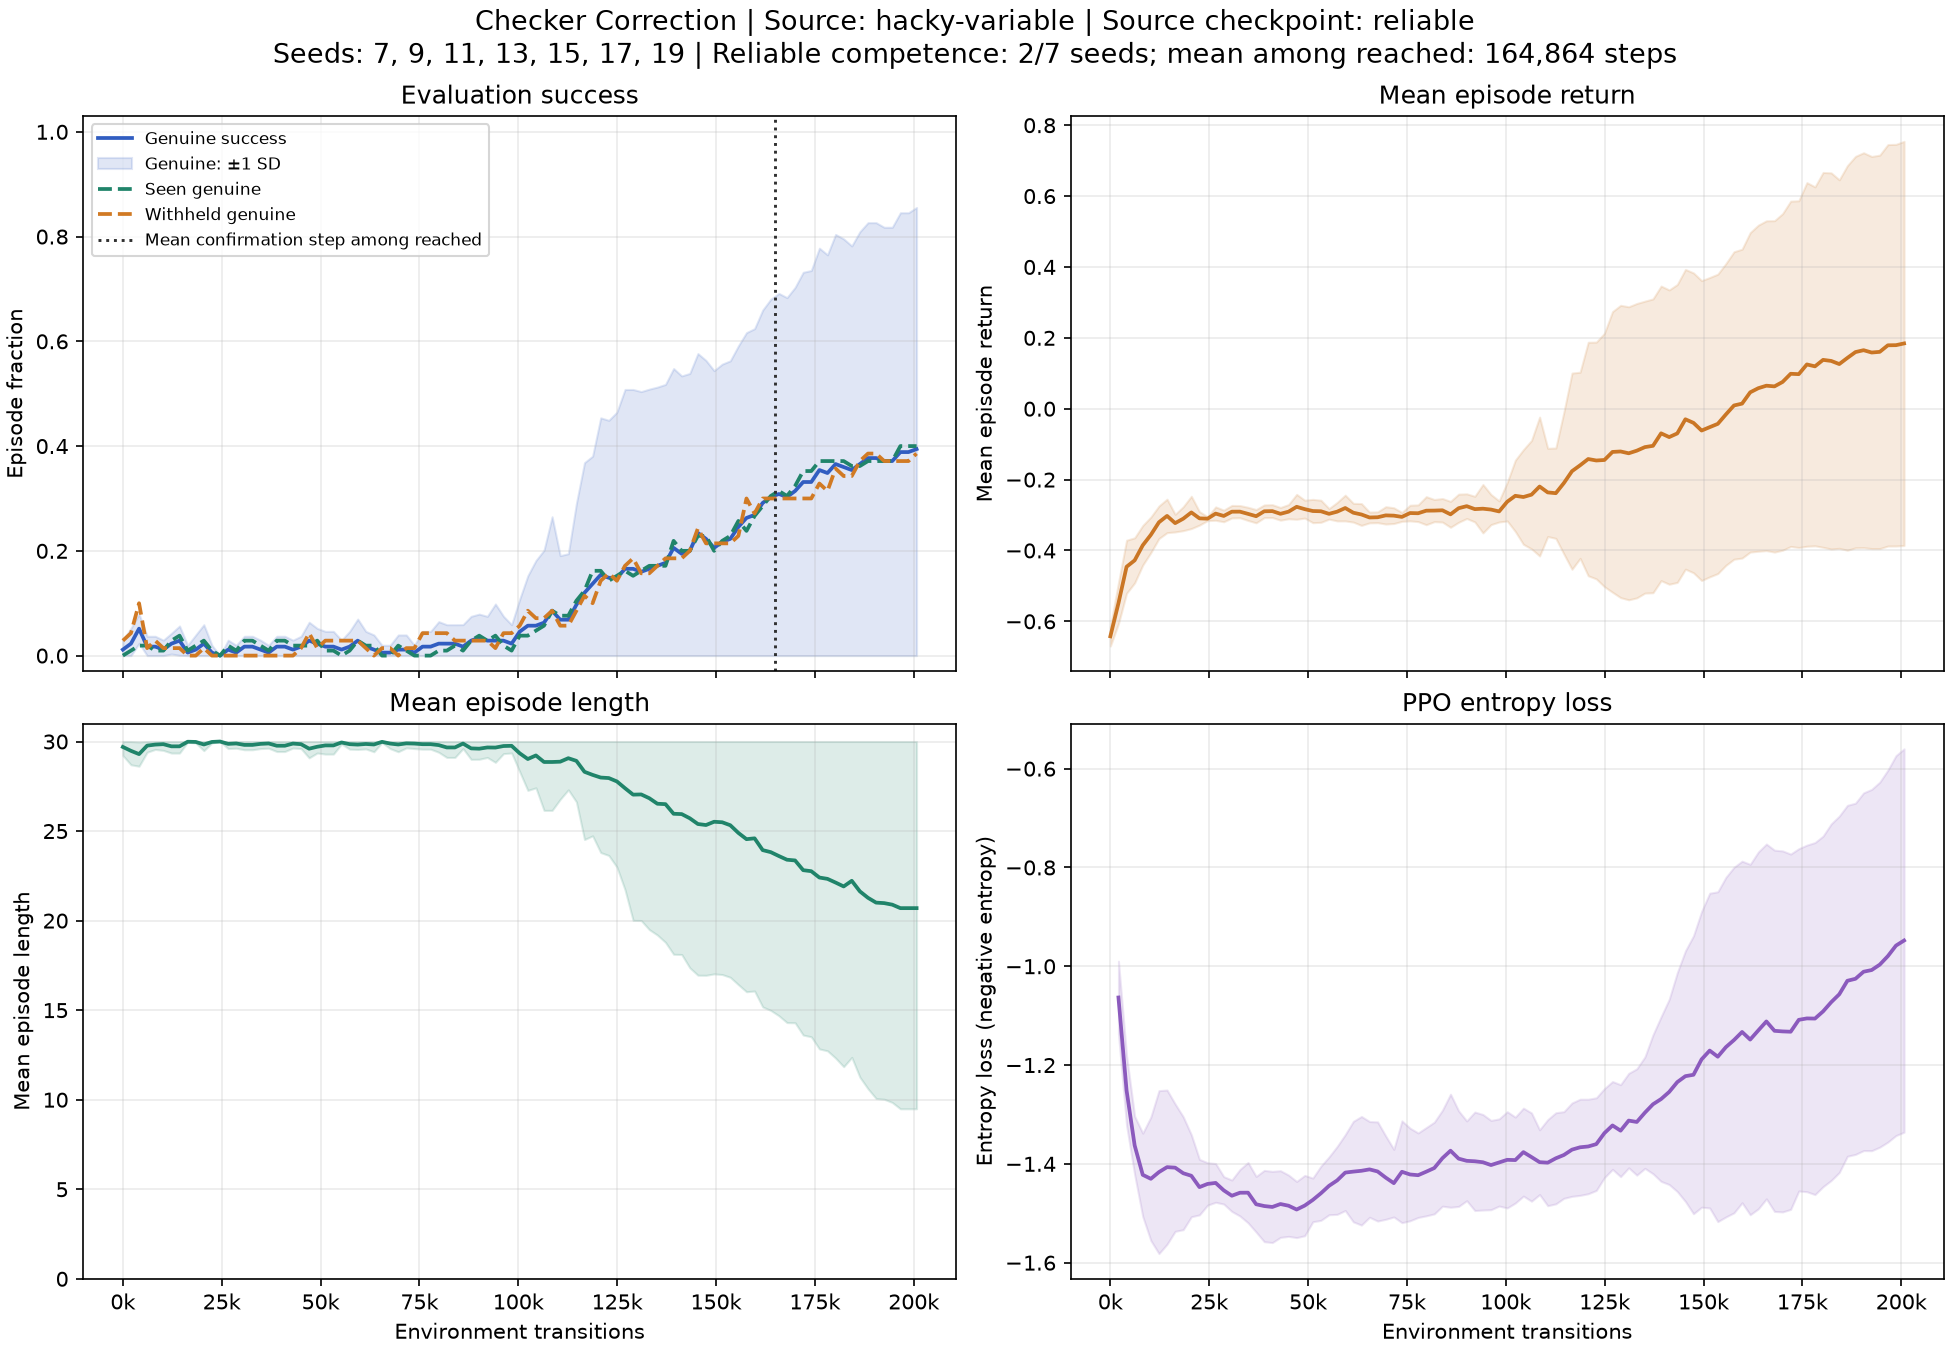
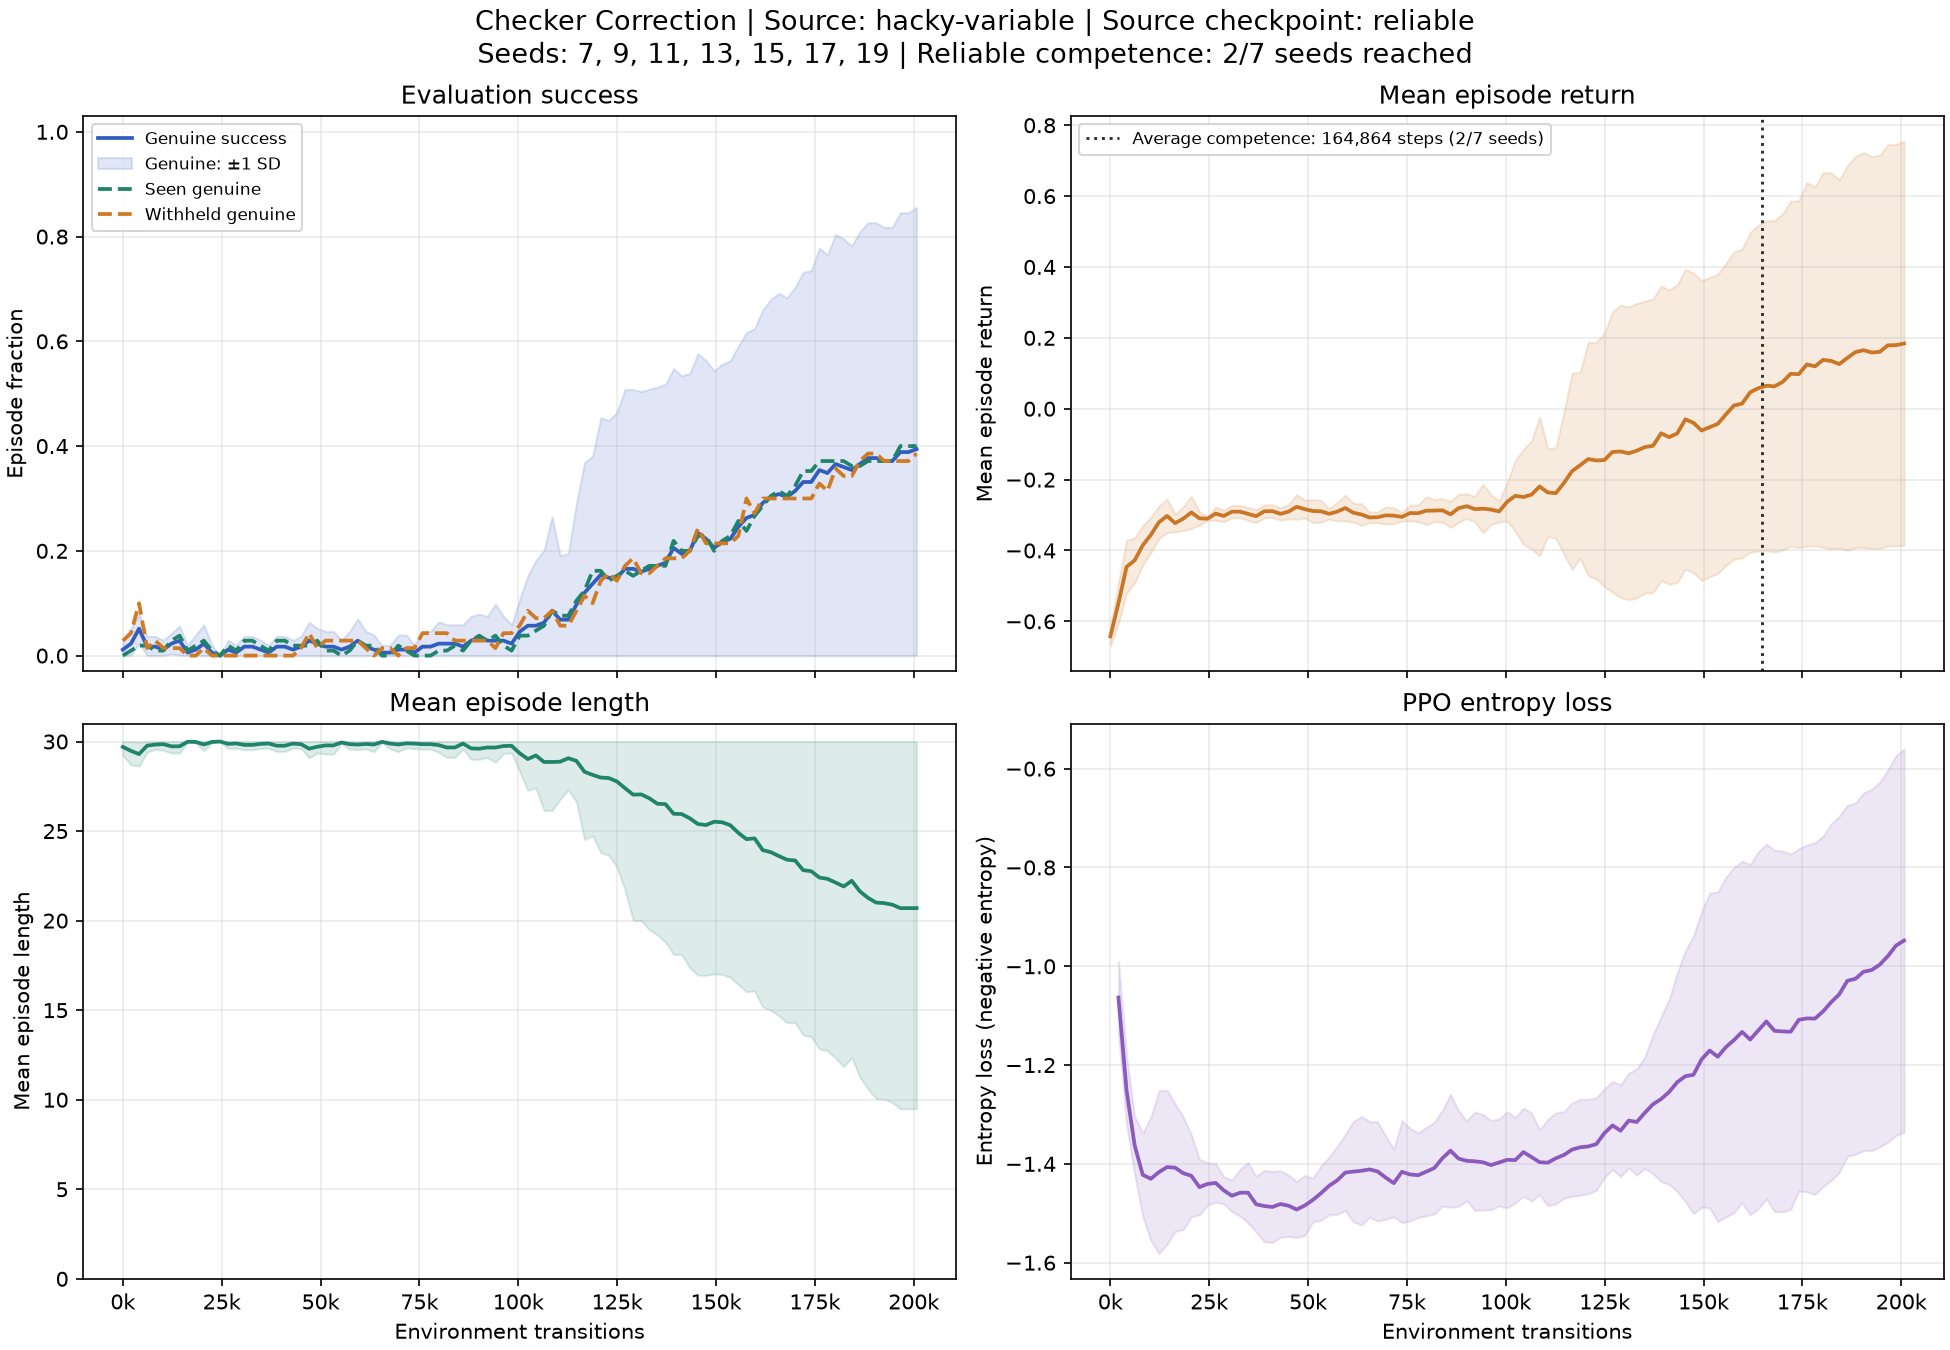
update final_plots

diff --git a/experiments/runners/plot_final_results.py b/experiments/runners/plot_final_results.py
@@ -178,10 +178,9 @@ def aggregate(group):
 def make_figure(group):
     steps, metrics, entropy_steps, entropy, reached = aggregate(group)
     runs = group['runs']
-    # Keep the conditional competence mean separate from the all-seed learning curves.
+    # Count every seed, including those that did not reach competence.
     fraction = f'{len(reached)}/{len(runs)} seeds'
-    reliability = (f'{fraction}; mean among reached: {np.mean(reached):,.0f} steps'
-                   if reached else f'{fraction}; not reached within budget')
+    reliability = f'{fraction} reached' if reached else f'{fraction}; not reached within budget'
     fig, axes = plt.subplots(2, 2, figsize=(13, 9), sharex=True, layout='constrained')
     source = runs[0]['source_checkpoint']
     if source:
@@ -211,10 +210,6 @@ def make_figure(group):
         if key == 'success_rate':
             success_axis.fill_between(steps, np.maximum(0, mean - std), np.minimum(1, mean + std),
                                       color=color, alpha=0.15, label='Genuine: ±1 SD')
-    if reached:
-        success_axis.axvline(np.mean(reached), color='#303030', linestyle=':', linewidth=1.4,
-                             label=('Mean shortcut confirmation step among reached' if is_shortcut
-                                    else 'Mean confirmation step among reached'))
     success_axis.set_title('Evaluation success')
     success_axis.set_ylabel('Episode fraction')
     success_axis.set_ylim(-0.03, 1.03)
@@ -235,6 +230,12 @@ def make_figure(group):
         axis.fill_between(steps, lower, upper, color=color, alpha=0.15)
         axis.set_title(label)
         axis.set_ylabel(label)
+    # Mark the average saved competence checkpoint on the return plot.
+    if reached:
+        competence_name = 'shortcut competence' if is_shortcut else 'competence'
+        axes[0, 1].axvline(np.mean(reached), color='#303030', linestyle=':', linewidth=1.4,
+                           label=f'Average {competence_name}: {np.mean(reached):,.0f} steps ({fraction})')
+        axes[0, 1].legend(fontsize=8, loc='best')
     mean, std = entropy
     axes[1, 1].plot(entropy_steps, mean, color='#8b5abd', linewidth=1.8)
     axes[1, 1].fill_between(entropy_steps, mean - std, mean + std, color='#8b5abd', alpha=0.15)
@@ -293,7 +294,7 @@ def write_index(output_dir, index):
     lines = [
         '# Combined experiment plots', '',
         'Each figure averages one experiment condition across model seeds. Shading is ±1 population standard deviation across those seeds, not a confidence interval. Success and episode-length shading is clipped to the task’s possible range. All selected seeds, including those that never reached competence, are included in every curve.', '',
-        'The competence count uses each run’s saved confirmation step. The dotted line and mean are calculated only among seeds that reached competence; they are not the point where the average curve crosses a threshold. No line is drawn when none reached competence.', '',
+        'The dotted line on the return plot shows the average saved competence checkpoint among seeds that reached it. The title shows how many seeds reached competence; no line is drawn if none did. The checkpoint is based on success and efficiency, not a return threshold.', '',
         'For the shortcut baseline, competence measures shortcut success and efficiency, while the blue curve measures genuine success. Other tasks use their own saved success and efficiency thresholds.', '',
         'Source checkpoint labels distinguish the earlier reliable checkpoint from the final source checkpoint. PPO follow-up steps begin at zero. Entropy loss is negative entropy measured on training rollouts and begins after the first PPO update.', '',
         'Baseline and regular follow-up groups use seeds 7, 9, 11, 13, 15, 17 and 19. Delivery after demonstrations uses the four completed seeds shared by every group: 7, 9, 11 and 13.', '',

diff --git a/tests/test_evaluation.py b/tests/test_evaluation.py
@@ -1,10 +1,12 @@
 import unittest
 
+import matplotlib.pyplot as plt
 import torch
 from stable_baselines3 import PPO
 
 from rl_envs.gym_adapter import GridWorld
 from rl_envs.task_splits import development_goal_split
+from experiments.runners.plot_final_results import make_figure
 from training.callbacks import EvaluationCheckpointCallback
 from training.evals import evaluate_model
 
@@ -26,6 +28,36 @@ class DeliveryPolicy:
         return (4 if carrying else 5), None
 
 class TestEvaluation(unittest.TestCase):
+
+    def test_average_competence_marker_appears_on_return_plot(self):
+        settings = {'environment': {'max_actions': 30}, 'training': {'competence_thresholds': {}}}
+        def run(seed, final_return, reliable_step):
+            return {'seed': seed, 'settings': settings, 'source_checkpoint': None,
+                    'reliable_step': reliable_step, 'entropy': [[2048, -1.0]],
+                    'evaluations': [{'step': 0, 'success_rate': 0.0, 'average_return': -0.3,
+                                     'average_episode_length': 30.0},
+                                    {'step': 4096, 'success_rate': 0.0, 'average_return': final_return,
+                                     'average_episode_length': 30.0}]}
+        group = {'category': 'baselines', 'name': 'example',
+                 'runs': [run(7, 1.0, 2048), run(9, 0.5, 4096), run(11, 0.0, None)]}
+        figure = make_figure(group)
+        try:
+            return_axis = figure.axes[1]
+            self.assertAlmostEqual(return_axis.lines[0].get_ydata()[-1], 0.5)
+            self.assertEqual(list(return_axis.lines[1].get_xdata()), [3072, 3072])
+            self.assertIn('2/3 seeds', return_axis.lines[1].get_label())
+            self.assertFalse(any('competence' in line.get_label() for line in figure.axes[0].lines))
+        finally:
+            plt.close(figure)
+
+        for run_data in group['runs']:
+            run_data['reliable_step'] = None
+        figure = make_figure(group)
+        try:
+            self.assertEqual(len(figure.axes[1].lines), 1)
+            self.assertIn('0/3 seeds', figure._suptitle.get_text())
+        finally:
+            plt.close(figure)
 
     def test_efficiency_uses_each_goal_and_excludes_failed_episodes(self):
         class PanelEnv(GridWorld):

diff --git a/final_plots/README.md b/final_plots/README.md
@@ -2,7 +2,7 @@
 
 Each figure averages one experiment condition across model seeds. Shading is ±1 population standard deviation across those seeds, not a confidence interval. Success and episode-length shading is clipped to the task’s possible range. All selected seeds, including those that never reached competence, are included in every curve.
 
-The competence count uses each run’s saved confirmation step. The dotted line and mean are calculated only among seeds that reached competence; they are not the point where the average curve crosses a threshold. No line is drawn when none reached competence.
+The dotted line on the return plot shows the average saved competence checkpoint among seeds that reached it. The title shows how many seeds reached competence; no line is drawn if none did. The checkpoint is based on success and efficiency, not a return threshold.
 
 For the shortcut baseline, competence measures shortcut success and efficiency, while the blue curve measures genuine success. Other tasks use their own saved success and efficiency thresholds.
 
